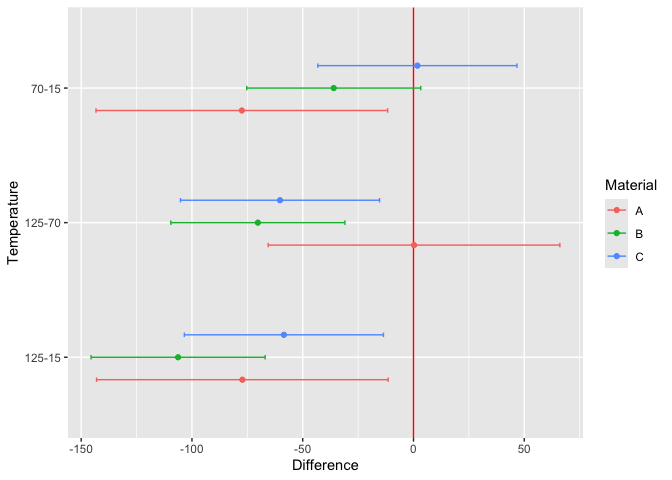
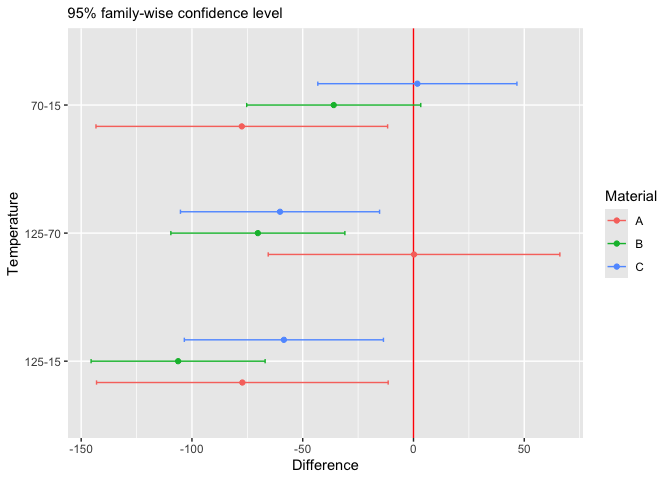
README

diff --git a/README.md b/README.md
@@ -4,6 +4,7 @@
 # adas.utils
 
 <!-- badges: start -->
+
 <!-- badges: end -->
 
 The goal of adas.utils is to provide some utility functions to be used
@@ -14,7 +15,7 @@ Trento, Italy. Course contents are on
 ## Installation
 
 You can install the development version of adas.utils from
-[GitHub](https://github.com/) with:
+[GitHub](https://github.com/pbosetti/adas.utils) with:
 
 ``` r
 # install.packages("devtools")
